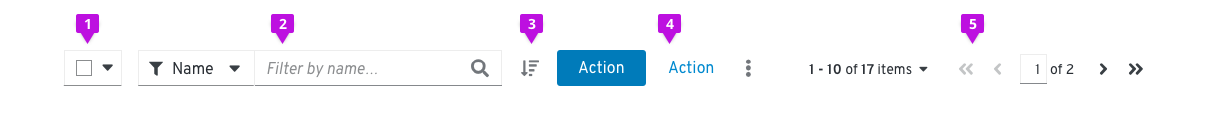
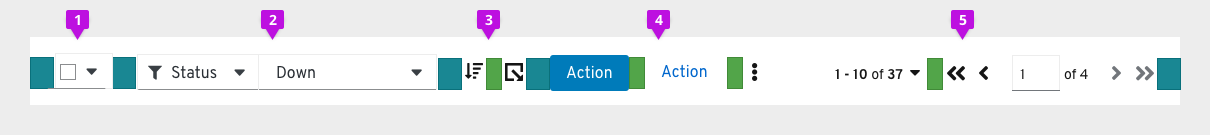
Lowercase links and toolbar design guideline (#1458)
* adding new toolbar images

* Push new images

* Updated basic-toolbar.png

* Revised design.md file content

* Update related component and demo links

* toolbar design guideline and lowercase link

diff --git a/packages/patternfly-4/src/templates/contentTemplate.js b/packages/patternfly-4/src/templates/contentTemplate.js
@@ -13,8 +13,13 @@ import {
 } from '@patternfly/react-core';
 import { PatternFlyThemeProvider } from '@patternfly/react-styled-system';
 import { Location } from '@reach/router';
+import { MDXProvider } from '@mdx-js/react';
 import { MDXRenderer } from '../components/mdx-renderer';
 import './template.scss';
+
+const components = {
+  a: props => <a {...props} href={props.href ? props.href.toLowerCase() : props.href} />
+};
 
 const navBuilder = navData => {
   return (
@@ -78,7 +83,9 @@ export default function ContentTemplate({
       <PageSection className="pageSectionStyles markdown-body" variant={PageSectionVariants.light}>
         <PatternFlyThemeProvider>
           <TextContent>
-            <MDXRenderer>{mdx.code.body}</MDXRenderer>
+            <MDXProvider components={components}>
+              <MDXRenderer>{mdx.code.body}</MDXRenderer>
+            </MDXProvider>
           </TextContent>
         </PatternFlyThemeProvider>
       </PageSection>

diff --git a/packages/patternfly-4/content/design-guidelines/usage-and-behavior/toolbar/design.md b/packages/patternfly-4/content/design-guidelines/usage-and-behavior/toolbar/design.md
@@ -2,35 +2,115 @@
 path: "/design-guidelines/usage-and-behavior/toolbar"
 ---
 # Toolbar
-The toolbar contains multiple components that allow a user to manage and manipulate a data set. Data can be presented in a variety of views (table, list, card, etc.). PatternFly supports multiple toolbar variations that address a variety of use cases.
+Toolbars can be included to allow a user to manage and manipulate a data set. Data can be presented in any valid presentation, a table, a list, or a data visualization (chart), for example. The PatternFly Toolbar component is a flexible layout system that accommodates a variety of configurations that can be adapted to your specific needs.
 
 ## Elements
-![toolbar](./img/toolbar.png)
 
-The following elements can be included in a typical toolbar:
+The toolbar is a container for holding a variety of elements (toolbar items and groups) that are used to manipulate a set of data.
 
-1. **Bulk selection (optional):** Bulk selection can be added when the functionality isn't available from the component you're using to present the data. For example, you might need to include a bulk selector for a card view or data list, but a table will enable bulk selection by default. Besides allowing the user to select and deselect all items on a page, other application specific options can be added in the dropdown. Bulk selection allows the user to select or deselect all items on a page and provide an indeterminate state that notifies the user when only some items are selected. Bulk selectors should always be the left-most element in a toolbar. When providing a bulk selector in a list view, it should be aligned with the checkboxes.
+![toolbar](./img/basic-toolbar-nocallout.png)
 
-2. **Filters:** PatternFly supports a variety of common filter types that can be used alone or in combination to construct a custom filter.
-3. **Sort (optional):** A sort component may be added when this functionality is needed. Tables have built in sorting, but card views and data lists may require toolbar sorting.
-4. **Global actions:** Any global actions that apply to selected data items are included left-aligned following filter and sort controls. These may be exposed as buttons or collapsed into a kabob menu. No more than two items should be exposed as buttons. Button labels should be limited in length to preserve horizontal space.
-5. **Pagination:** When pagination is supported, a pagination component will be included. Pagination will always be right aligned in the toolbar.
+All items should be centered vertically within the height.
+
+### Toolbar items and groups
+Toolbar items are individual components that can be placed inside of a toolbar. Buttons, select lists, and pagination controls are examples of items. Often, it makes sense to group sets of like items to create desired associations and to enable items to respond together to changes in viewport width.
+
+Below are examples of: a group of icons, a group of buttons, a group of icons and buttons.
+
+![toolbar items and groups](./img/items-and-groups.png)
+
+Items within a group have 16px spacing between them. Items that are made up of multiple parts (for example the filter dropdown and input group) are treated as one item in regards to the spacing.
+
+
+### Multiple Groups
+
+A toolbar can have more than one group of items. Between groups there should be 24px of spacing.
+
+Below is a group of icons next to a group of buttons. Note the cyan 24px spacer between them.
+
+![multiple groups](./img/multiple-groups.png)
+
+A single item that doesn't belong to a larger group is treated as a group on its own. It uses a 24px spacer on either side.
+
+Below is a single button next to a group of icons.
+
+![single item as group](./img/single-item-as-group.png)
+
+### Toggle groups
+A toggle group can be used when you want to collapse a set of items into an overlay panel at a certain breakpoint. This allows complex toolbars with multiple items and groups of items to be responsive. A toggle group is useful for containing filter controls, for example. When the toolbar responds to adapt to a mobile viewport, the contents contained in a toggle group will collapse into an overlay panel that can be toggled by clicking the Filter icon.
+
+![Toolbar with toggle group](./img/mobile-basic.png)
+
+![Toolbar with expanded toggle group](./img/mobile-expanded.png)
+
+### Overflow menus
+An overflow menu is a component that can be used in a toolbar (or elsewhere) to group a number of actions that should be collapsed into a kabob at a certain breakpoint. In the toolbar, the overflow menu will commonly be used to group a set of actions that are intended to collapse into the kabob at smaller viewport sizes.
+
+![toolbar with overflow menu](./img/basic-toolbar-nocallout.png)
+
+![toolbar with overflow collapsed](./img/mobile-basic-copy.png)
+
+In the above example, when the viewport size is reduced both the filter controls, contained in a toggle group, and the global actions, contained in an overflow menu, collapse to minimize the space required by the toolbar.
+
+### Vertical dividers
+When you have a large toolbar containing many groups of items, use a vertical divider to further
+separate the groups visually.
+
+![toolbar with divider](./img/toolbar-with-divider.png)
+
+## Common toolbar items and groups
+
+![common toolbar items](./img/toolbar.png)
+
+**1. Bulk selector:** A Bulk selector can be added when you want to give users the ability to select multiple items within a page. Besides allowing the user to select and deselect all items on a page, other application specific options can be added in the dropdown. Bulk selection allows the user to select or deselect all items on a page and provide an indeterminate state that notifies the user when only some items are selected. Bulk selectors should always be the left-most element in a toolbar. When providing a bulk selector in a list view, it should be aligned with the checkboxes.
+
+
+**2. Filter group:** PatternFly supports a variety of common filter types that can be used alone or in combination to construct a custom filter. You may consider placing filters inside of a toggle group to make you toolbar responsive. See [Filters](/design-guidelines/usage-and-behavior/filters) for more information about available filters.
+
+
+**3. Icon button group:** Actions or settings that are represented by icons can be added in an Icon button group. In the example, Sort and Export are represented as icons.
+
+
+**4. Action button group:** Any global actions that apply to selected data items are included left-aligned following filter and icon buttons. These may be placed within an overflow menu component to collapse the group as the viewport shrinks. No more than two items should be exposed as buttons. Button labels should be limited in length to preserve horizontal space.
+
+
+**5. Pagination:** When pagination is supported, a Pagination component will be included. Pagination will always be right aligned in the toolbar. If pagination is not supported, substitute the item count for pagination control. For example, report “17 items” to represent the total number of items or “10 of 17 items” to indicate that 10 items were returned as the result of a filter event.
 
 ## Usage
-### When to use
-Toolbars enable users to manipulate data in views where built-in controls aren't already available, like list views or card views. You can choose from multiple toolbar variations to suit your use case, and further customize your toolbar using any of the components listed under [Related components and demos](#related-components-and-demos).
+### Order of toolbar elements
+Within the toolbar, layouts may vary depending on the use case.
+* When used, bulk selection should be the left-most element.
+* Filters and global actions may follow.
+* When pagination is used, it should be the right-most element.
+* When pagination is not used, the item count should be the right-most element.
 
-### When not to use
-Don't provide a toolbar for any data view that already includes the controls needed to manipulate a given data.
 
-### Layout considerations
+### Placement in a page
+
+The toolbar should live as close to possible to the content it controls. For a card view, the toolbar should be placed inside of the page header, above the card grid. This arrangement is also recommended if the user may switch between views (e.g. view as cards or as a list).
+
+![toolbar in page header](./img/toolbar-layout-cardview.png)
+
+For simple list and table views, the toolbar should always appear above the data set to which it applies. Toolbars should stretch to the width of the data view to which it applies, with the elements aligned in a horizontal row.
+
 ![layout](./img/toolbar-layout.png)
 
-The toolbar should appear below the page title, if one exists. It should always appear above the data set to which it applies. Toolbars should stretch to the width of the data view to which it applies, with the elements aligned as specified below. When filters are applied, the toolbar will expand in height to make space for a row of filter chips. Upon clearing the applied filters, the toolbar will collapse to its default height.
+Note that there should be no spacers on the left and right edges of the toolbar if there are already padding spacers being used with whatever component the toolbar is placed within (e.g. cards).
 
-Within the toolbar, layouts may vary depending on the use case. When used, bulk selection should be the left-most element. Filters and global actions may follow. When pagination is used it should be the right-most element. When pagination is not used, the item count should be the right-most element.
+### Multi-line toolbars
+In most cases, toolbars should arrange elements in a single horizontal row. The PatternFly toolbar does allow for expansion to multiple rows when needed however. The following are some examples of when a multi-line toolbar may be needed.
 
-## Variations
+#### Filtering
+![layout](./img/toolbar-filter-chips.png)
+
+**1. Filter Chips:** When filters are applied, the toolbar will expand in height to make space for a row of filter chips. Upon clearing the applied filters, the toolbar will collapse to its default height.
+
+#### Stacked toolbar
+There may be situations where all of the required elements simply cannot fit is a single line. In this example, we want to expose multiple filter options as separate select lists. This is a good option when providing visibility to available filters is more important than optimizing space.
+
+![two-line toolbar](./img/toolbar-2level.png)
+
+## Examples
 **Basic toolbar**
 ![basic](./img/basic-toolbar.png)
 The basic toolbar is sufficient for most cases. It includes filters, global actions, and item count. The Toolbar is shown here with an Attribute-Value (textbox) filter, but a variety of filter types may be used.
@@ -50,13 +130,6 @@ When the current settings of the controls are not sufficient to convey applied f
 ![custom](./img/custom-toolbar.png)
 Custom toolbars can vary by use case. In the above example, the toolbar is primarily comprised of filters.
 
-## Examples
-**Toolbar in data table**
-![datatable](./img/data-table-example.png)
-
-**Toolbar in data list**
-![datalist](./img/data-list-example.png)
-
 **Responsive toolbar**
 
 The toolbar adapts to smaller viewport sizes by collapsing or hiding elements that take significant space, including filters and actions. On mobile devices, when used, pagination will be available from the footer, only.
@@ -66,19 +139,14 @@ The toolbar adapts to smaller viewport sizes by collapsing or hiding elements th
 
 ## Related components and demos
 **Core HTML/CSS**
-* [Badges](/documentation/core/components/badge)
-* [Buttons](/documentation/core/components/button)
+* [Data Toolbar (experimental)](/documentation/core/experimental/DataToolbar)
+* [Overflow menu (experimental)](/documentation/core/experimental/OverflowMenu)
 * [Chip](/documentation/core/components/chip)
 * [Chip group](/documentation/core/components/chipgroup)
-* [Dropdowns](/documentation/core/components/dropdown)
-* [Input group](/documentation/core/components/inputgroup)
-* [Options menus](/documentation/core/components/optionsmenu)
 * [Pagination](/documentation/core/components/pagination)
-* [Select](/documentation/core/components/select)
 
 **React**
-* [Badges](/documentation/react/components/badge)
-* [Buttons](/documentation/react/components/button)
-* [Chip](/documentation/react/components/chip)
-* [Dropdowns](/documentation/react/components/dropdown)
-* [Toolbar demo](/documentation/react/demos/toolbardemo)
+* [Data Toolbar (experimental)](/documentation/react/experimental/DataToolbar)
+* Overflow menu (experimental) - under development
+* [Chip group](/documentation/react/components/chipgroup)
+* [Pagination](/documentation/react/components/pagination)
